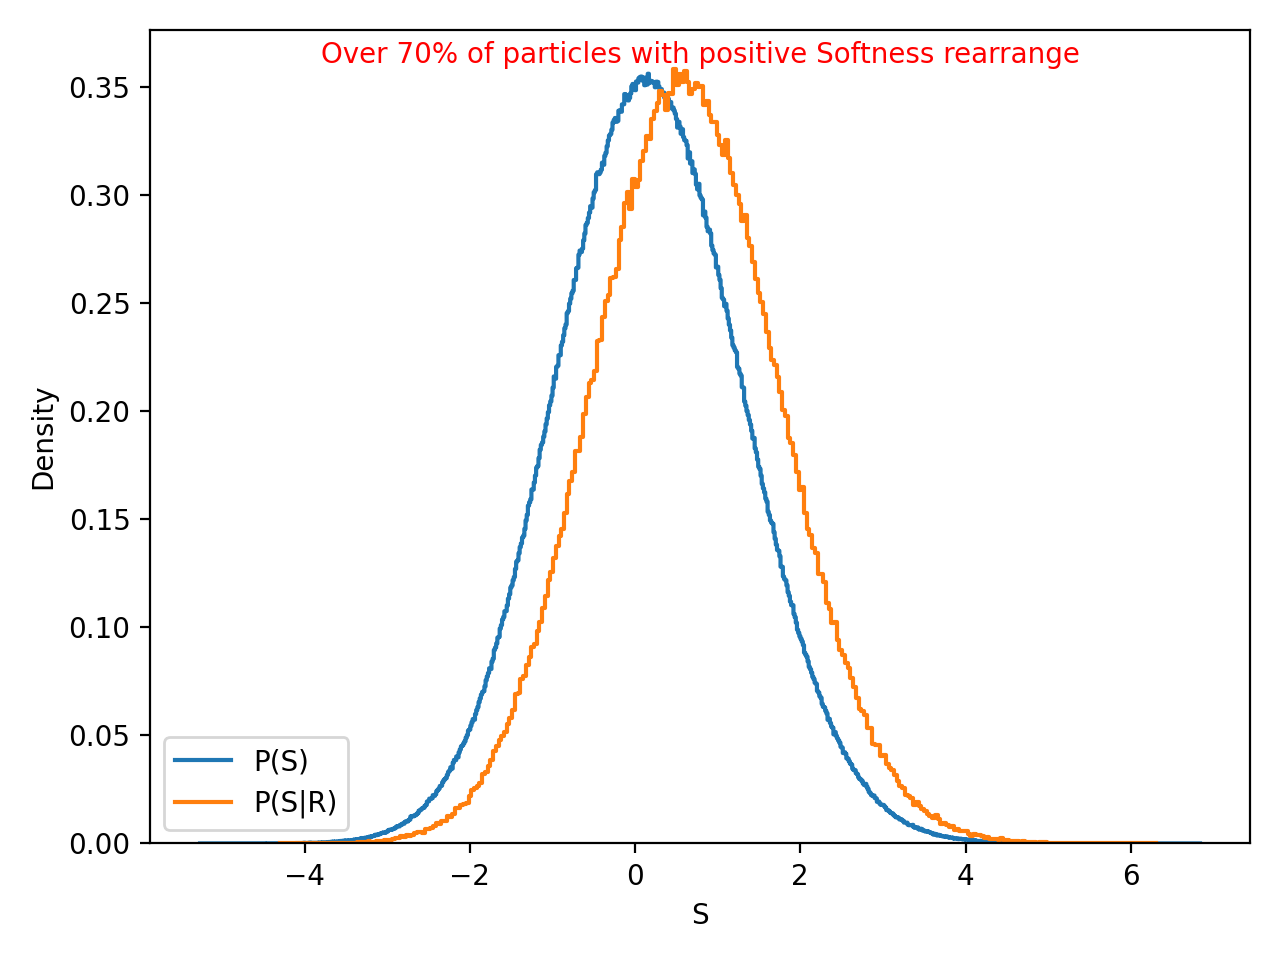
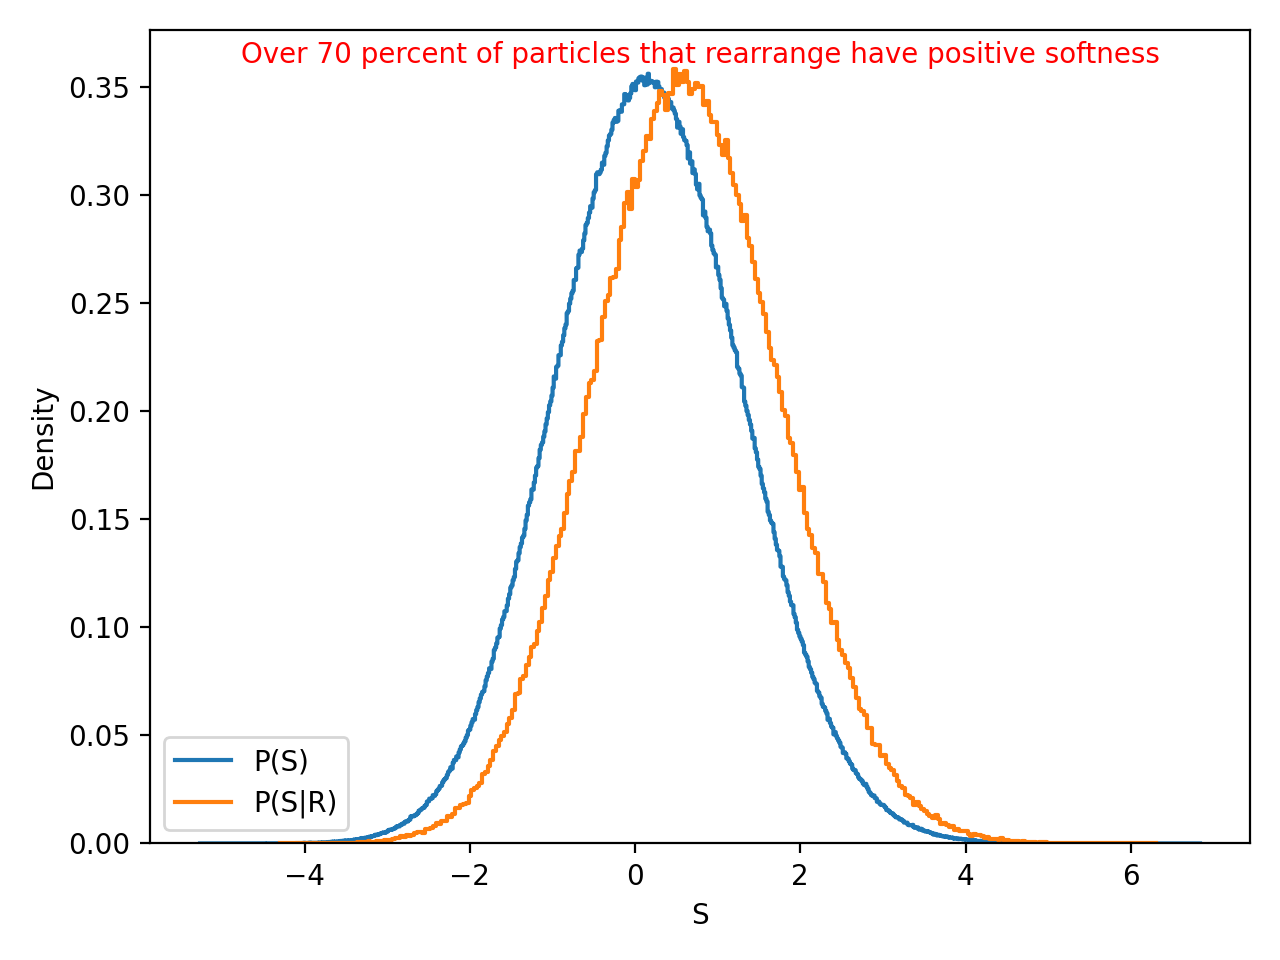
chore: add MIT LICENSE; fix annotation on softness distribution plot

Changed region(s): [[0.1875, 0.0312, 0.9062, 0.0938]]

diff --git a/README.md b/README.md
@@ -1,7 +1,5 @@
 # SoftnessML API
 
-A machine learning framework for predicting local rearrangement propensity ("softness") in supercooled liquids and glassy systems using structure-based descriptors and Support Vector Machine (SVM) models.
-
 > **Machine learning framework for predicting particle rearrangements in supercooled liquids and glasses from local structure — served as a FastAPI microservice.**
 
 [![Python 3.9+](https://img.shields.io/badge/python-3.9+-blue.svg)](https://www.python.org/downloads/)
